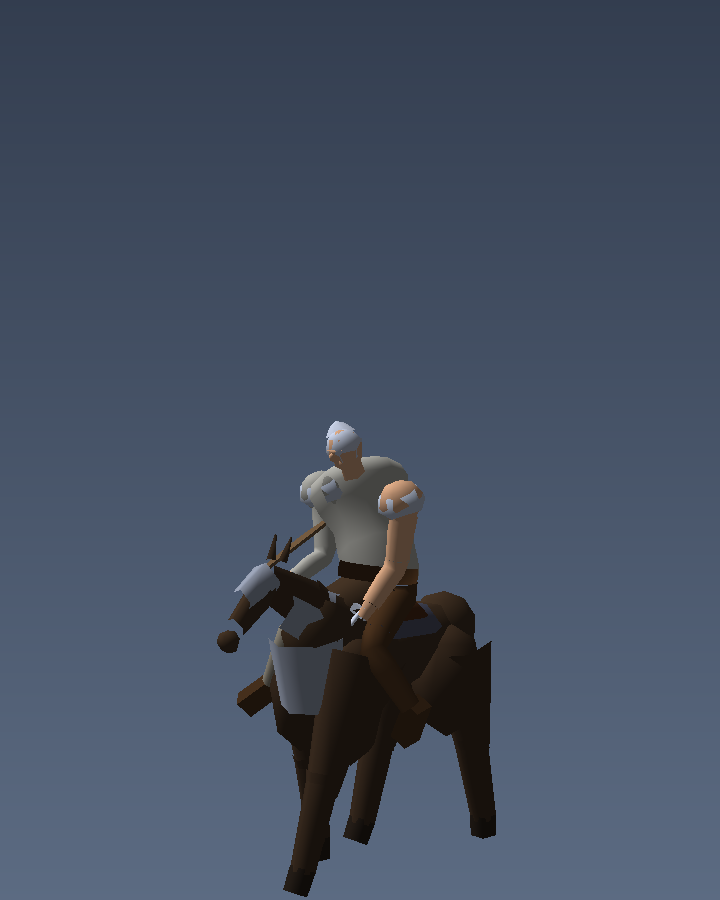
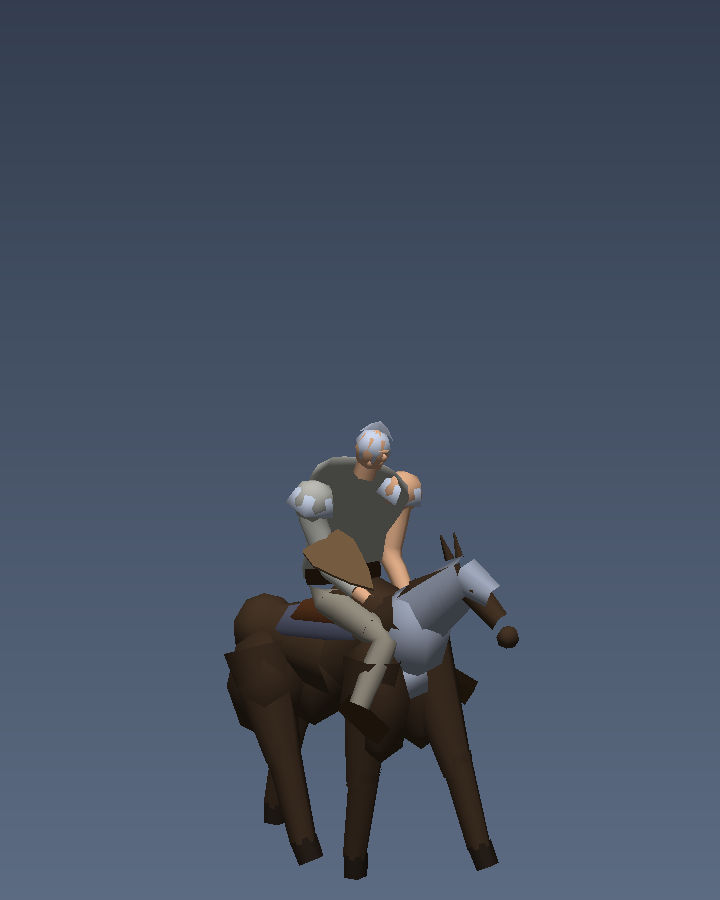
Unit rig: barding wrapped on the animal, not intersecting it
The grey plates were two flat sheets either side of the horse's shoulders.
Both came from the same fault as the earlier floating barding, one level
deeper: the plates were built on the right landmark, but with radii SMALLER
than the form underneath them.

The peytral was a vertical tube of radius 0.21 built on the body centreline.
The barrel is 0.27. So the plate lived inside the animal and only its open
ends emerged, one each side of the chest -- which is exactly what it looked
like: two sheets standing off the shoulders with nothing between them. The
crinet had the same problem against the neck, 0.17 against a neck 0.15 wide
but 0.23 deep, with the squash on the wrong axis, so each band was narrower
than the neck across the grain.

Both are now shells: the peytral is the breast ellipsoid's own centre and
radii grown by 22 mm, and each crinet band is built between the same two
points as the neck segment it covers with both radii past the neck's. A
shell that matches the form underneath cannot float off it by construction,
which is the rule the block already claimed to follow -- it was just being
followed with the wrong numbers.

The drop below the breastbone had the identical defect and became an
ellipsoid twice the barrel's depth.

Worst mounted tier cost 2022/1438/836 against the 2050/1450/950 caps, and
60/60 suites pass.

Changed region(s): [[0.3056, 0.4667, 0.7333, 0.9956]]

diff --git a/imperial-crown-v6/src/gfx/rig/mount.js b/imperial-crown-v6/src/gfx/rig/mount.js
@@ -249,23 +249,45 @@ export function buildMount(g, coat, opts = {}) {
     g.tube(head, [0, L.pollY - 0.06, L.pollZ - 0.02], [0, L.muzzleY + 0.18, L.muzzleZ - 0.12],
       R * 0.40, R * 0.27, { seg: 5, rings: 1, squash: [0.86, 1.05] });
 
-    /* crinet: three overlapping bands following the neck's own lean */
+    /* crinet: three overlapping bands down the neck.
+       These had the same defect as the peytral -- radius 0.17 against a neck
+       that is 0.15 wide but 0.23 deep, with the squash applied on the wrong
+       axis, so each band is narrower than the neck across the grain and its
+       open ends stand off it as flat wings. A band has to enclose the
+       segment it covers, so each is built between the same two points as its
+       neck segment with both radii grown past the neck's own. */
     for (let i = 0; i < 3; i++) {
-      const t0 = i / 3, t1 = Math.min(1, (i + 1) / 3 + 0.14);   // +0.14 overlap
-      const y0 = (L.withers - 0.20) + (L.pollY - L.withers) * t0;
-      const z0 = (L.neckBaseZ - 0.10) + (L.pollZ - L.neckBaseZ) * t0;
-      const y1 = (L.withers - 0.20) + (L.pollY - L.withers) * t1;
-      const z1 = (L.neckBaseZ - 0.10) + (L.pollZ - L.neckBaseZ) * t1;
-      g.tube(neck, [0, y0, z0], [0, y1, z1],
-        R * (0.62 - t0 * 0.16), R * (0.62 - t1 * 0.16),
-        { seg: 5, rings: 1, squash: [0.84, 1.22] });
+      const t0 = i / 3, t1 = Math.min(1, (i + 1) / 3 + 0.16);   // overlap
+      const y0 = (L.withers - 0.26) + (L.pollY - 0.06 - (L.withers - 0.26)) * t0;
+      const z0 = (L.neckBaseZ - 0.10) + (L.pollZ - (L.neckBaseZ - 0.10)) * t0;
+      const y1 = (L.withers - 0.26) + (L.pollY - 0.06 - (L.withers - 0.26)) * t1;
+      const z1 = (L.neckBaseZ - 0.10) + (L.pollZ - (L.neckBaseZ - 0.10)) * t1;
+      /* the neck tapers R*0.66 -> R*0.34 over its run; match it and add */
+      const ra = R * (0.66 - 0.32 * t0) + 0.022;
+      const rb = R * (0.66 - 0.32 * t1) + 0.022;
+      g.tube(neck, [0, y0, z0], [0, y1, z1], ra, rb,
+        { seg: 5, rings: 1, squash: [0.86, 1.34] });
     }
 
-    /* peytral: the breast, inflated. Built on the BODY from the same points
-       the breast ellipsoid uses, so it sits on the animal instead of beside
-       it -- this is the plate that was hanging off the near flank. */
-    g.tube(body, [0, L.withers - 0.22, L.chestZ + 0.04], [0, L.belly + 0.10, L.chestZ - 0.04],
-      R * 0.78, R * 0.66, { seg: 6, rings: 1, squash: [1.0, 0.64] });
+    /* peytral: the breast, inflated.
+       This was a vertical tube of radius 0.21 built on the body centreline,
+       which is NARROWER than the barrel (0.27) -- so instead of wrapping the
+       chest it sat inside the animal and only its open ends poked out the
+       sides, reading as two flat grey sheets standing off the shoulders.
+       Cover the breast with a shell of the breast's own dimensions, grown by
+       22 mm: same centre, same radii, plus a little. A shell that matches the
+       form underneath cannot float off it by construction, which is the rule
+       this whole barding block exists to obey. */
+    g.ellipsoid(body, [0, L.withers - 0.20, L.chestZ - 0.02],
+      [R * 0.70 + 0.022, R * 0.86 + 0.022, 0.18 + 0.022],
+      { sph: [6, 4] });
+    /* A drop below the breastbone, so the plate reads as hanging armour
+       rather than as paint on the chest. Same discipline as the shell: it is
+       an ellipsoid twice the barrel's depth, not a narrow tube -- a tube of
+       radius 0.157 against a 0.27 barrel is another plate sitting inside the
+       animal with only its ends showing. */
+    g.ellipsoid(body, [0, L.withers - 0.46, L.chestZ - 0.14],
+      [R * 0.60, 0.15, 0.20], { sph: [5, 3] });
   }
 
   return { body, neck, head };
